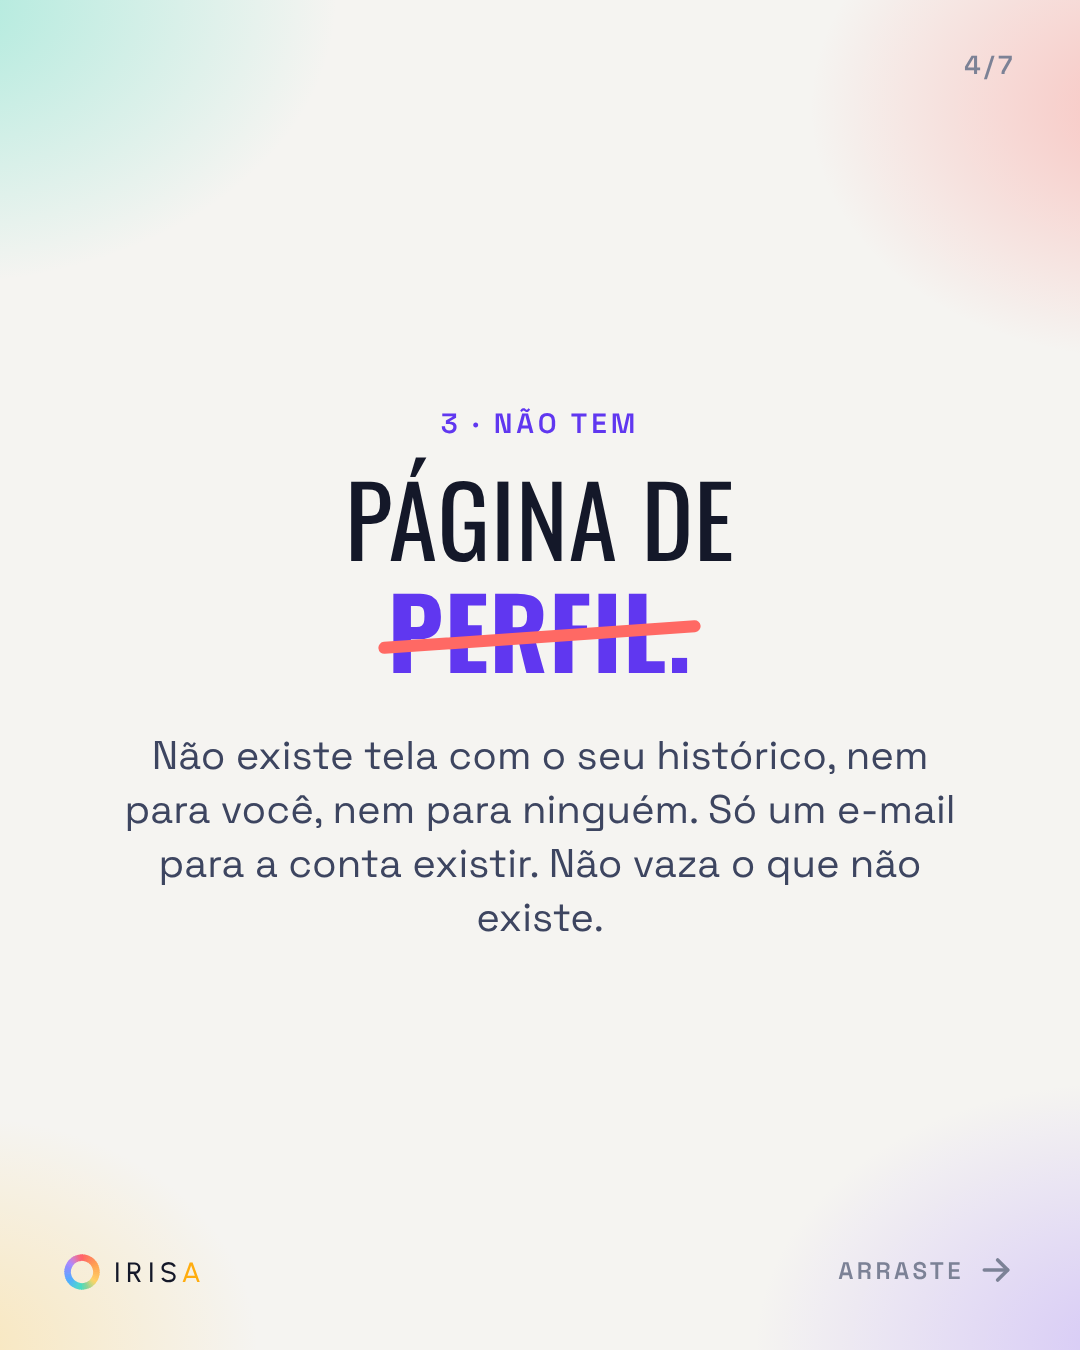
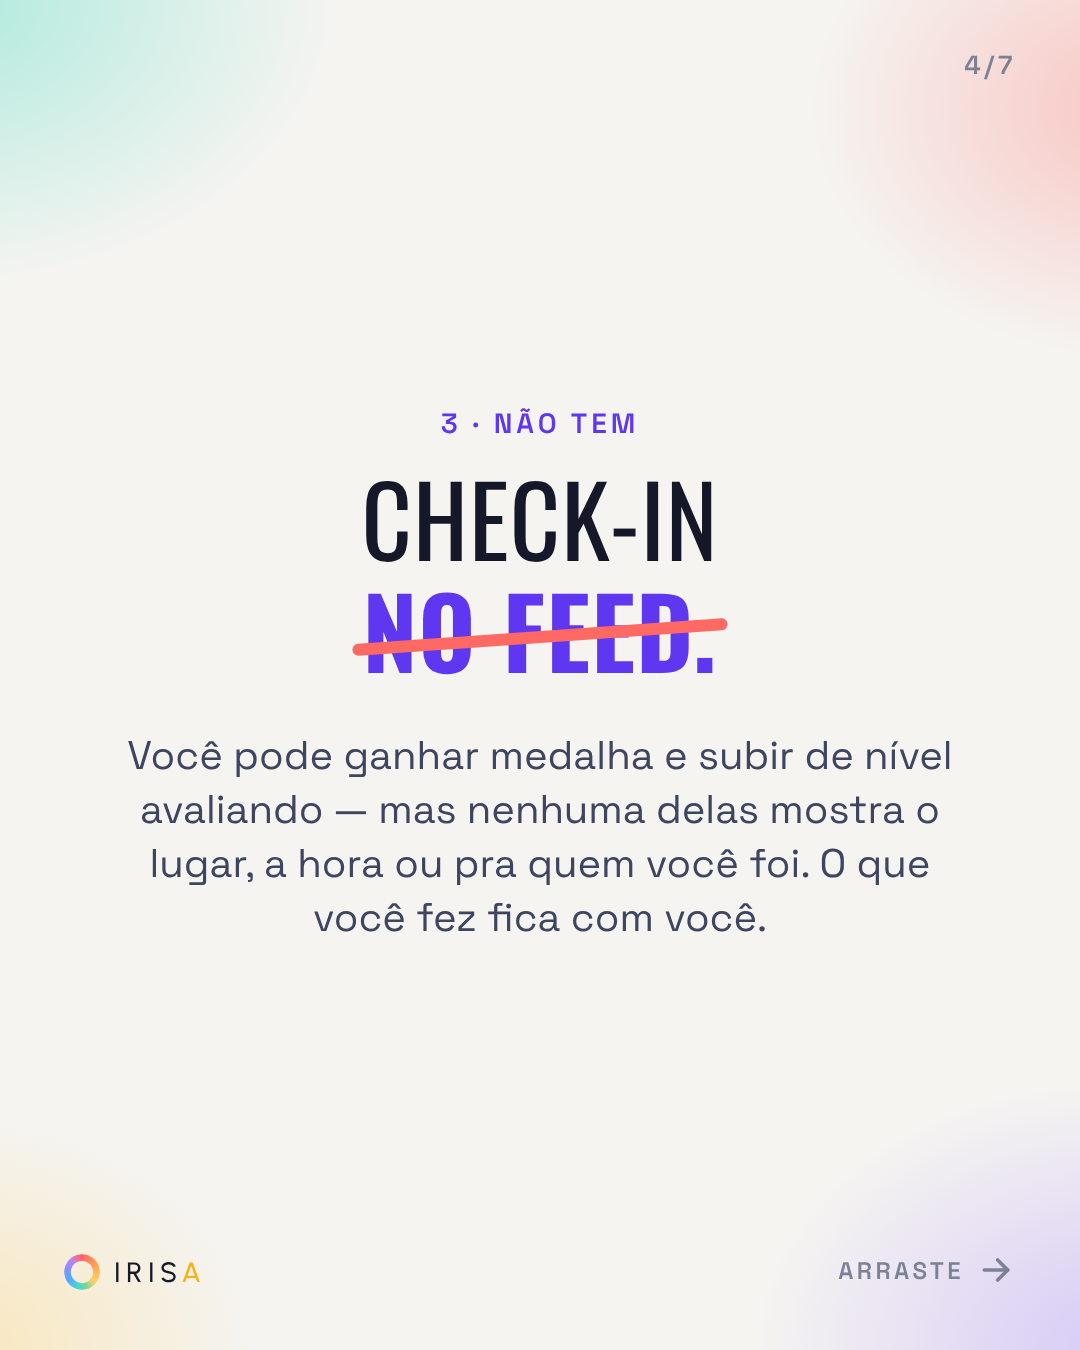
Corrige carrossel-11: lâmina de perfil trocada por check-in
A lâmina "página de perfil" dizia que não existe tela com histórico, mas
o Perfil ganhou Sua evolução/Conquistas/Suas cores. Trocada por "check-in
no feed" (medalha não mostra lugar/hora/com quem), decisão que continua
valendo.

Claude-Session: https://claude.ai/code/session_015WqfV53Y8EeDbiaJmrZRa2

Changed region(s): [[0.1222, 0.5289, 0.8861, 0.7156], [0.3056, 0.3422, 0.6722, 0.4978]]

diff --git a/docs/carrossel-11.html b/docs/carrossel-11.html
@@ -75,8 +75,8 @@ body{font-family:var(--body);color:var(--ink);display:flex;flex-direction:column
 <p class="big c" style="font-size:98px;margin:20px 0 44px"><span class="lt">Selo de</span><br><span class="strike" style="color:var(--turqInk)">região tranquila.</span></p>
 <p class="body c" style="max-width:860px">Sem relato não quer dizer sem violência. Quer dizer que ninguém registrou ainda — e dizer o contrário seria a falha mais perigosa que o app poderia cometer.</p></section>
 <section class="sl"><div class="bg"></div><div class="num">4/7</div><div class="brand"><svg class="mark" viewBox="0 0 100 100"><use href="#radarmin"></use></svg><span>Iris<b>a</b></span></div><div class="swipe">arraste <svg viewBox="0 0 24 24" fill="none" stroke="currentColor" stroke-width="2.2" stroke-linecap="round" stroke-linejoin="round"><path d="M5 12h14"/><path d="m13 6 6 6-6 6"/></svg></div><div class="eyebrow c" style="color:var(--lilacInk)">3 · não tem</div>
-<p class="big c" style="font-size:98px;margin:20px 0 44px"><span class="lt">Página de</span><br><span class="strike" style="color:var(--lilacInk)">perfil.</span></p>
-<p class="body c" style="max-width:860px">Não existe tela com o seu histórico, nem para você, nem para ninguém. Só um e-mail para a conta existir. Não vaza o que não existe.</p></section>
+<p class="big c" style="font-size:98px;margin:20px 0 44px"><span class="lt">Check-in</span><br><span class="strike" style="color:var(--lilacInk)">no feed.</span></p>
+<p class="body c" style="max-width:860px">Você pode ganhar medalha e subir de nível avaliando — mas nenhuma delas mostra o lugar, a hora ou pra quem você foi. O que você fez fica com você.</p></section>
 <section class="sl"><div class="bg"></div><div class="num">5/7</div><div class="brand"><svg class="mark" viewBox="0 0 100 100"><use href="#radarmin"></use></svg><span>Iris<b>a</b></span></div><div class="swipe">arraste <svg viewBox="0 0 24 24" fill="none" stroke="currentColor" stroke-width="2.2" stroke-linecap="round" stroke-linejoin="round"><path d="M5 12h14"/><path d="m13 6 6 6-6 6"/></svg></div><div class="eyebrow c" style="color:var(--orangeInk)">4 · não tem</div>
 <p class="big c" style="font-size:94px;margin:20px 0 44px"><span class="lt">Filtro de bar</span><br><span class="strike" style="color:var(--orangeInk)">por alerta.</span></p>
 <p class="body c" style="max-width:860px">O relato acontece no beco, na praça, no ponto de ônibus. Filtrar bar por isso faria a violência parecer atributo do lugar e puniria quem só está perto.</p></section>
